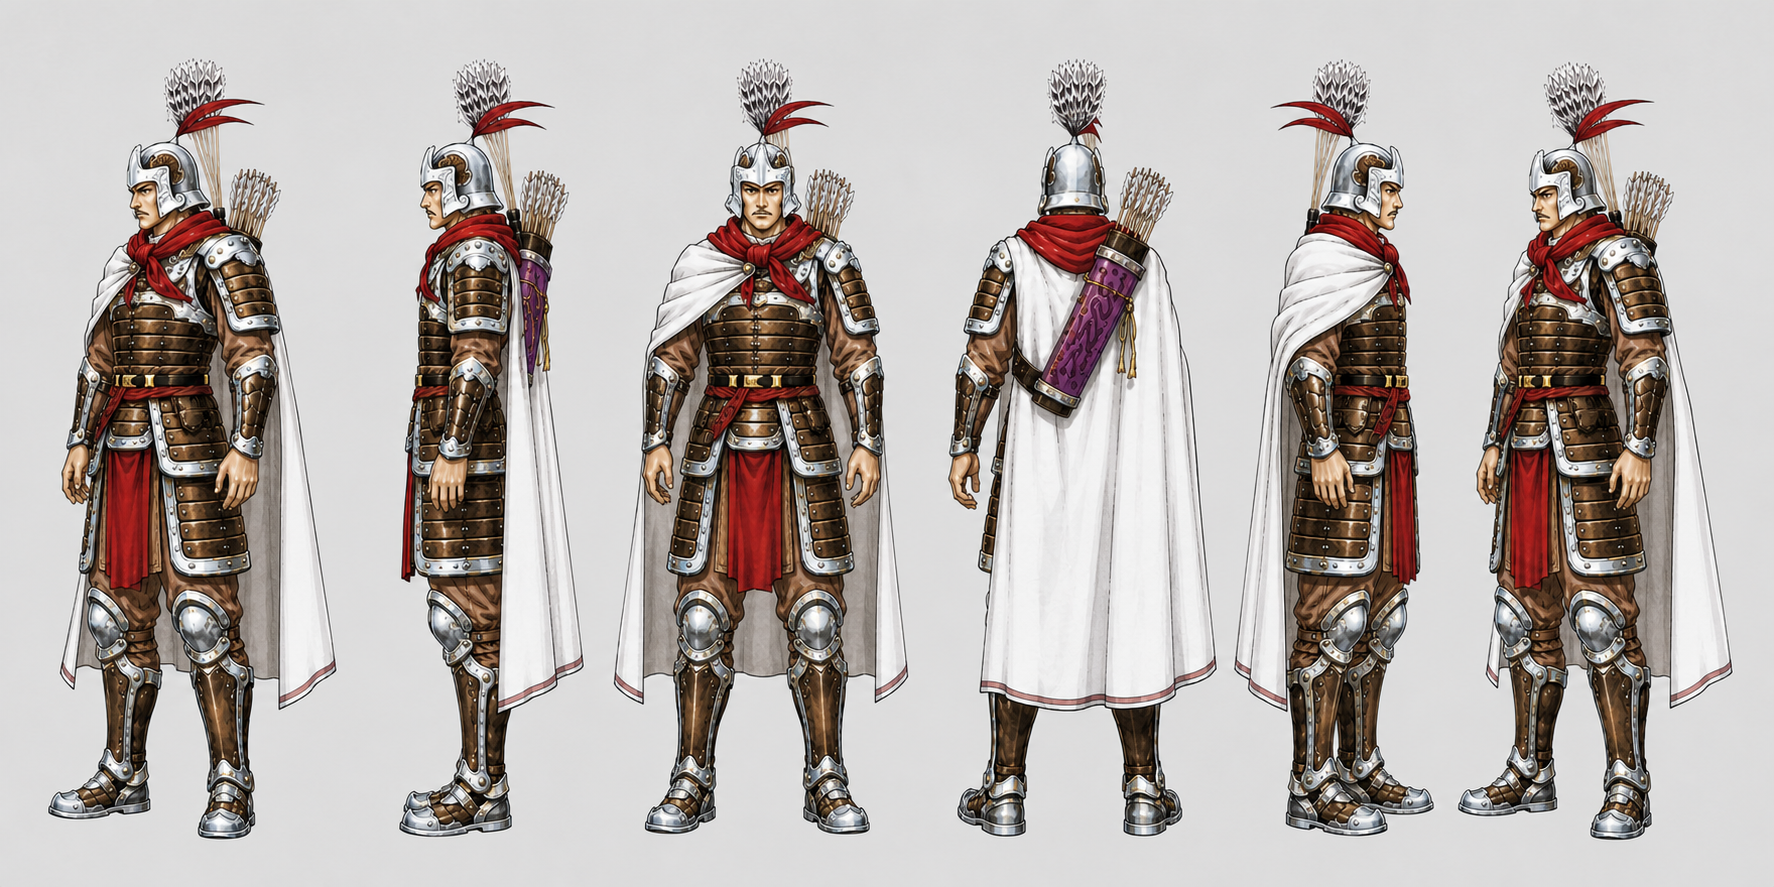
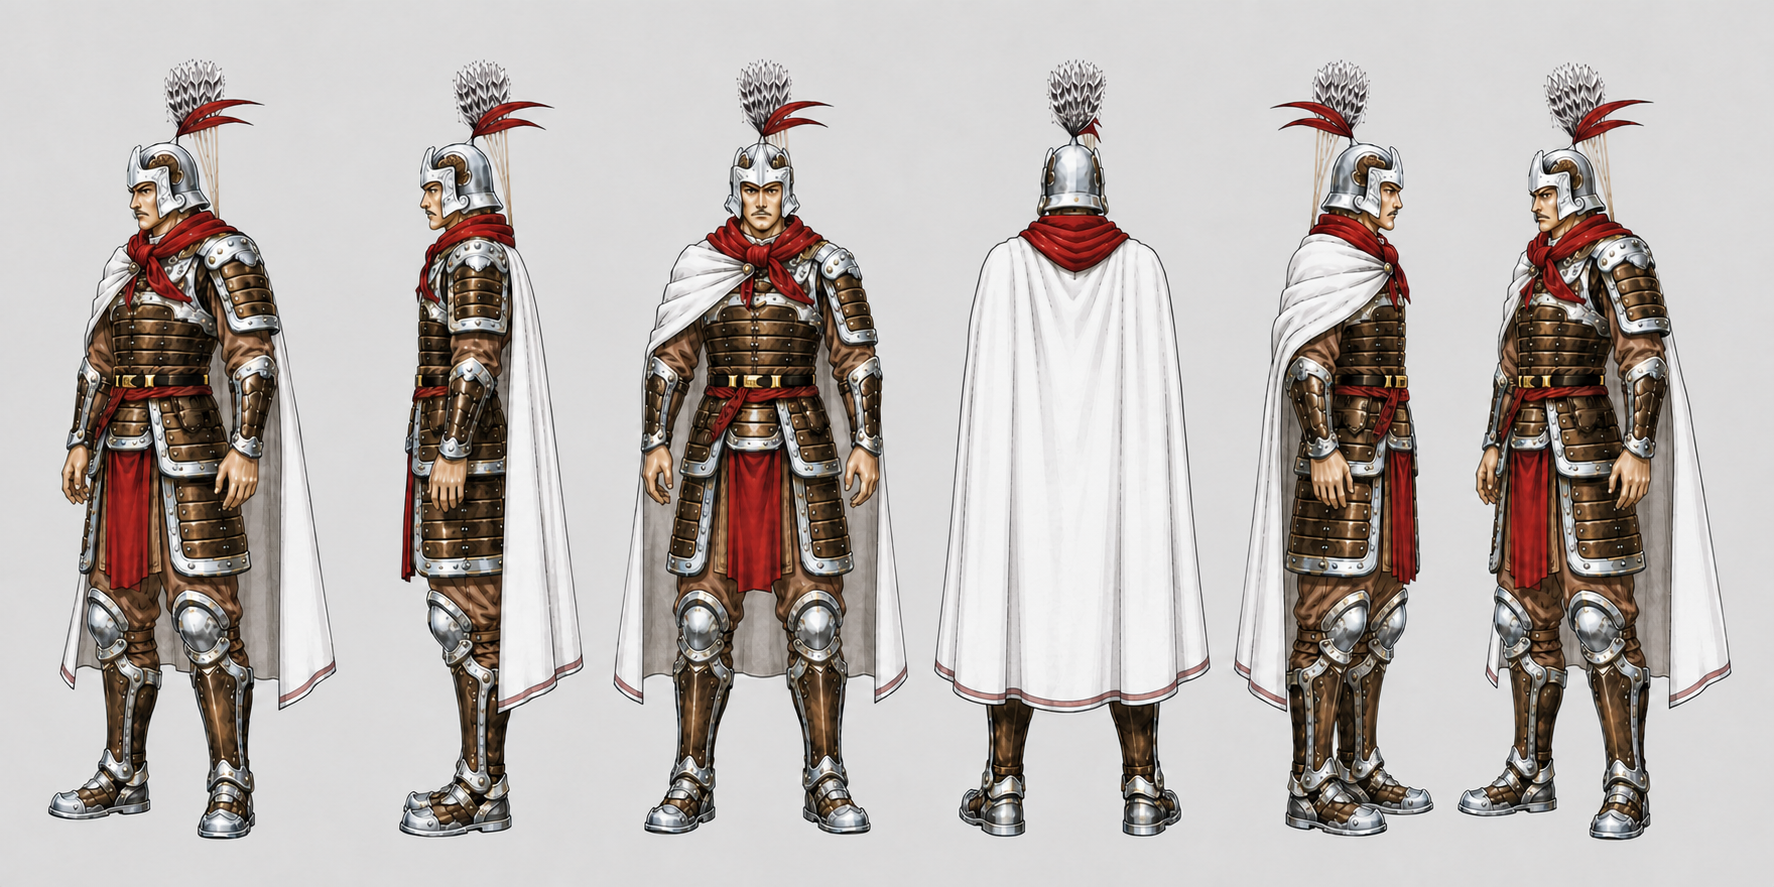
fix(角色019): 移除六视图中的背部箭筒
按用户标注移除人物六视图中的背负箭筒、箭矢及专属绑带，同时保留头盔羽簇和红色盔缨。同步角色规格与复核记录，并保存返修前版本。

diff --git a/character-model-sheets/characters/019/review-notes.md b/character-model-sheets/characters/019/review-notes.md
@@ -2,6 +2,7 @@
 
 - 状态：`generated`，人物六视图与所需独立实体均已生成并通过全量复核；未标记为 `approved`。
 - 需交付：人物六视图；武器／标志道具、坐骑。
+- 2026-08-21 局部返修：已按用户标注移除人物六视图中的背负箭筒、筒内箭矢、箭筒专属绑带与流苏；保留头盔顶部黑白羽簇、红色盔缨及其连接结构。返修前主文件备份为 `character-turnaround-v2.png`，独立武器表未改动。
 
 ## 人物六视图
 
